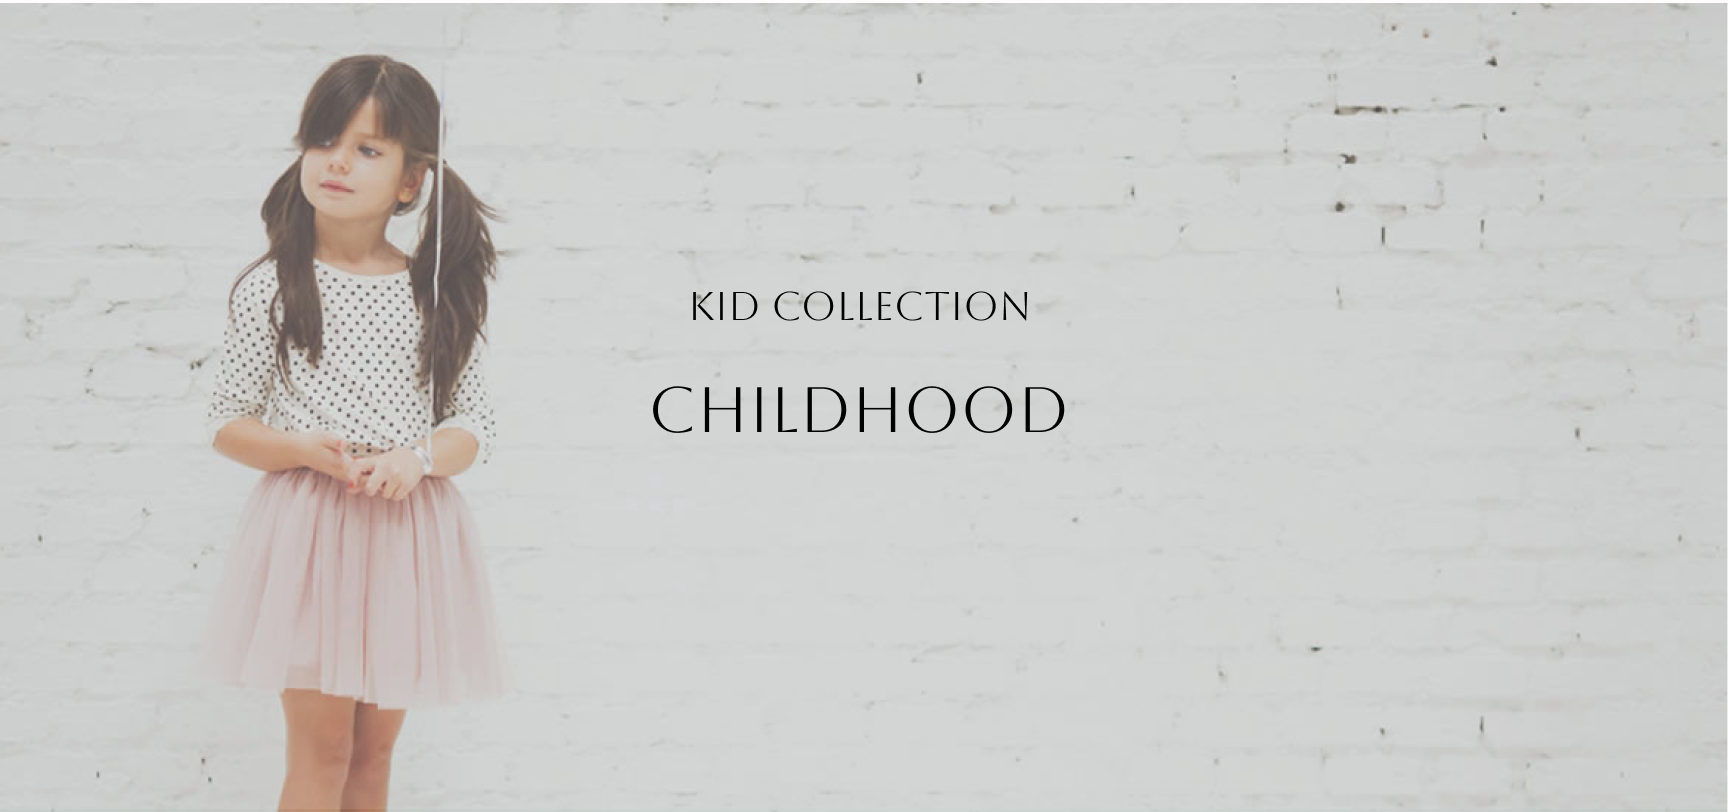
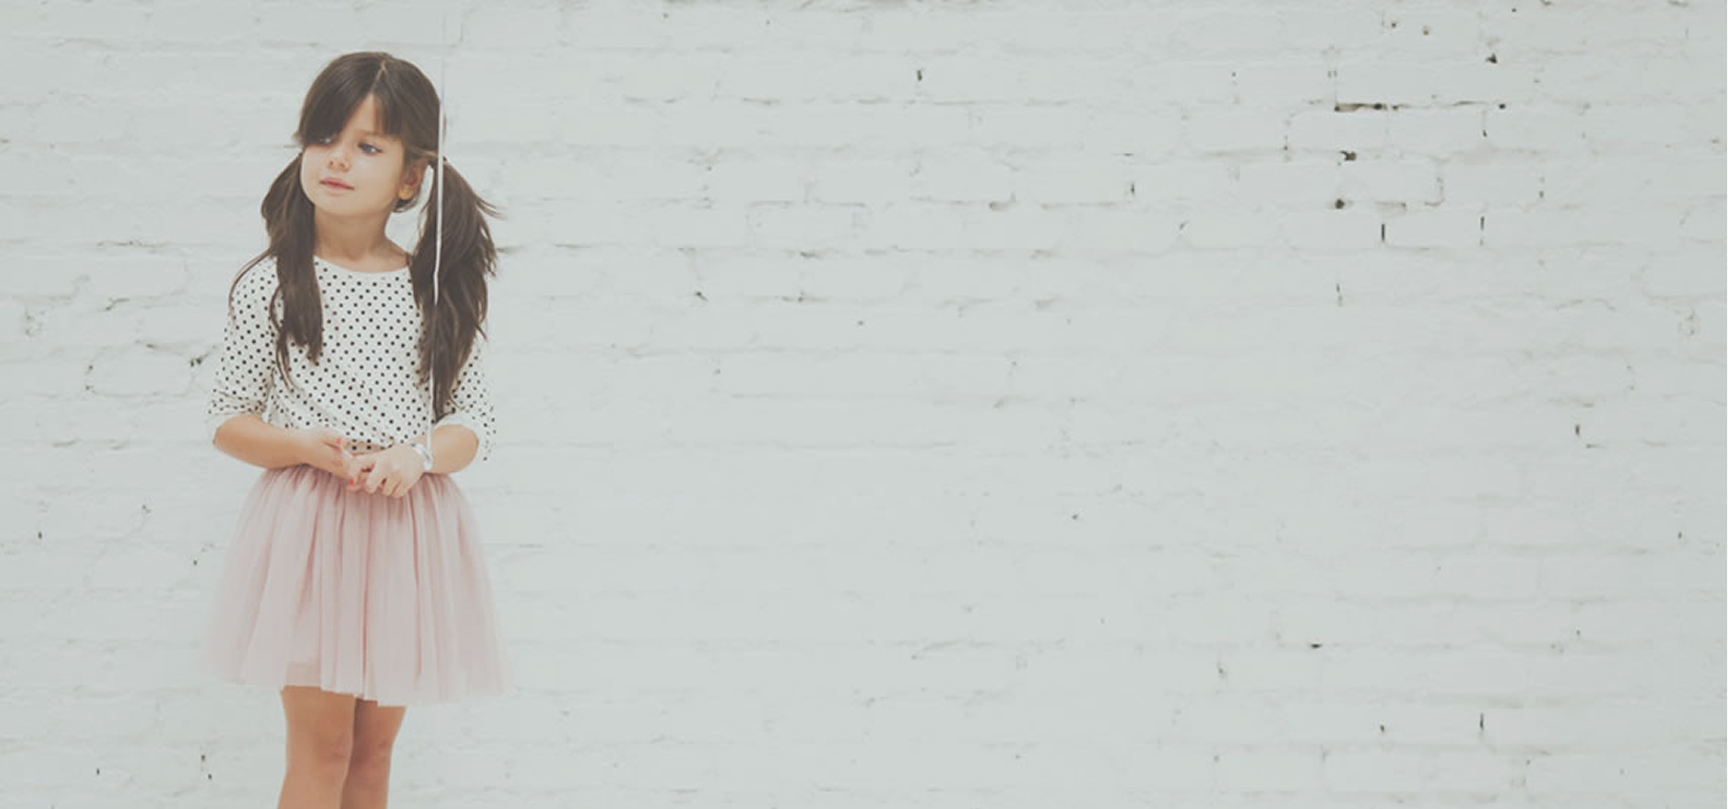
content updated and responsiveness improved

diff --git a/src/page/homePage.tsx b/src/page/homePage.tsx
@@ -13,27 +13,46 @@ import TopBar from '../component/topbar';
 import Footer from '../component/footer';
 
 
+const backgroundSlides = [
+    {
+        image: "/images/homeFrame1.jpg",
+        title: "UPTO 70%",
+        subtitle: "YOUR DRESS UP CLOTHES FIRST",
+    },
+    {
+        image: "/images/homeFrame2.png",
+        title: "KID COLLECTION",
+        subtitle: "CHILDHOOD",
+    },
+    {
+        image: "/images/homeFrame3.png",
+        title: "UPTO 70%",
+        subtitle: "NEW YEAR SPECIAL SALE OFF!!!",
+    }
+];
+
+const blogPosts = [
+    {
+        id: 1,
+        title: 'MIX & MATCH WEEKEND',
+        description: 'Lorem ipsum dolor sit amet, consectetur adipiscing elit. Sed ac tincidunt eros ...',
+        image: '/images/blog1.png'
+    },
+    {
+        id: 2,
+        title: 'LONDON FASHION WEEK 2015',
+        description: 'Lorem ipsum dolor sit amet, consectetur adipiscing elit. Sed ac tincidunt eros ...',
+        image: '/images/blog2.png'
+    }
+];
+
+
 export default function HomePage() {
     const { addToCart } = useCart();
     const [selectedSizes, setSelectedSizes] = useState<Record<string, string>>({});
+    const [currentIndex, setCurrentIndex] = useState(0);
     const [isHovered, setIsHovered] = useState(false);
     const navigate = useNavigate();
-
-
-    const blogPosts = [
-        {
-            id: 1,
-            title: 'MIX & MATCH WEEKEND',
-            description: 'Lorem ipsum dolor sit amet, consectetur adipiscing elit. Sed ac tincidunt eros ...',
-            image: '/images/blog1.png'
-        },
-        {
-            id: 2,
-            title: 'LONDON FASHION WEEK 2015',
-            description: 'Lorem ipsum dolor sit amet, consectetur adipiscing elit. Sed ac tincidunt eros ...',
-            image: '/images/blog2.png'
-        }
-    ];
 
     const addToCartHandler = (product: any) => {
         const price = Number(product.price.replace(/[^0-9.]/g, ""));
@@ -66,55 +85,64 @@ export default function HomePage() {
         }));
     };
 
-    const backgroundImages = [
-        '/images/homeFrame1.png',
-        '/images/homeFrame2.png',
-        '/images/homeFrame3.png'
-    ];
-
-    const [currentIndex, setCurrentIndex] = useState(0);
-
     useEffect(() => {
         const interval = setInterval(() => {
-            setCurrentIndex((prev) => (prev + 1) % backgroundImages.length);
-        }, 4000);
+            setCurrentIndex((prevIndex) => (prevIndex + 1) % backgroundSlides.length);
+        }, 5000);
         return () => clearInterval(interval);
-    }, [backgroundImages.length]);
+    }, []);
+
+    const currentSlide = backgroundSlides[currentIndex];
 
 
     return (
         <div>
             <TopBar />
             <div
-                className="relative flex flex-column justify-content-end align-items-center"
+                className="relative flex align-items-center justify-content-center text-center"
                 style={{
                     height: '40rem',
-                    backgroundImage: `url(${backgroundImages[currentIndex]})`,
+                    backgroundImage: `url(${currentSlide.image})`,
                     backgroundSize: 'cover',
                     backgroundPosition: 'center',
-                    position: 'relative',
+                    overflow: 'hidden',
                     transition: 'background-image 1s ease-in-out',
-                    paddingBottom: '4rem'
                 }}
             >
-                <Button
-                    label="SHOP NOW"
-                    className="p-button-rounded p-button-secondary mb-8"
+                <div
+                    className="absolute w-full h-full"
                     style={{
-                        backgroundColor: isHovered ? '#FFE1E2' : '#000000',
-                        color: isHovered ? '#000000' : '#FFE1E2',
-                        border: '1px solid black',
-                        transition: 'all 0.3s ease',
-                    }}
-                    onMouseEnter={() => setIsHovered(true)}
-                    onMouseLeave={() => setIsHovered(false)}
-                    onClick={() => {
-                        navigate('/sale');
-                        window.scrollTo(0, 0);
+                        backgroundColor: '#FFE1E2',
+                        opacity: 0.4,
+                        top: 0,
+                        left: 0,
+                        zIndex: 1,
                     }}
                 />
-            </div>
 
+                <div className="text-black px-4" style={{ zIndex: 2, fontFamily: 'Aboreto' }}>
+                    <h2 style={{ fontSize: '1.5rem', marginBottom: '0.5rem' }}>{currentSlide.title}</h2>
+                    <h1 style={{ fontSize: '2.5rem', fontWeight: 'bold', marginBottom: '1.5rem' }}>
+                        {currentSlide.subtitle}
+                    </h1>
+                    <Button
+                        label="SHOP NOW"
+                        className="p-button-rounded p-button-secondary"
+                        style={{
+                            backgroundColor: isHovered ? '#FFE1E2' : '#000000',
+                            color: isHovered ? '#000000' : '#FFE1E2',
+                            border: '1px solid black',
+                            transition: 'all 0.3s ease',
+                        }}
+                        onMouseEnter={() => setIsHovered(true)}
+                        onMouseLeave={() => setIsHovered(false)}
+                        onClick={() => {
+                            navigate('/sale');
+                            window.scrollTo(0, 0);
+                        }}
+                    />
+                </div>
+            </div>
 
             <div className="p-4">
                 <div className="flex justify-content-between align-items-center ml-4">
